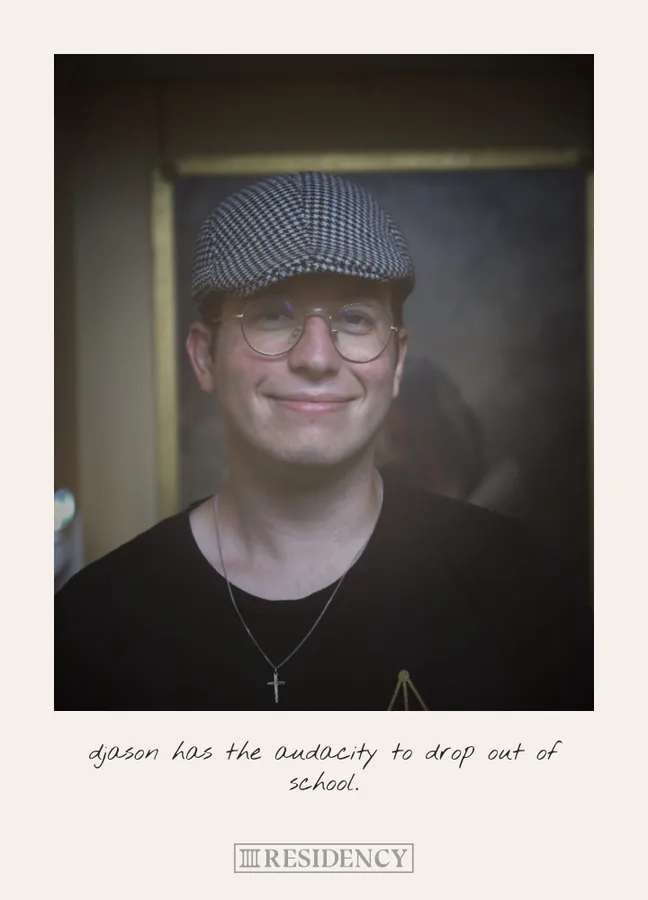
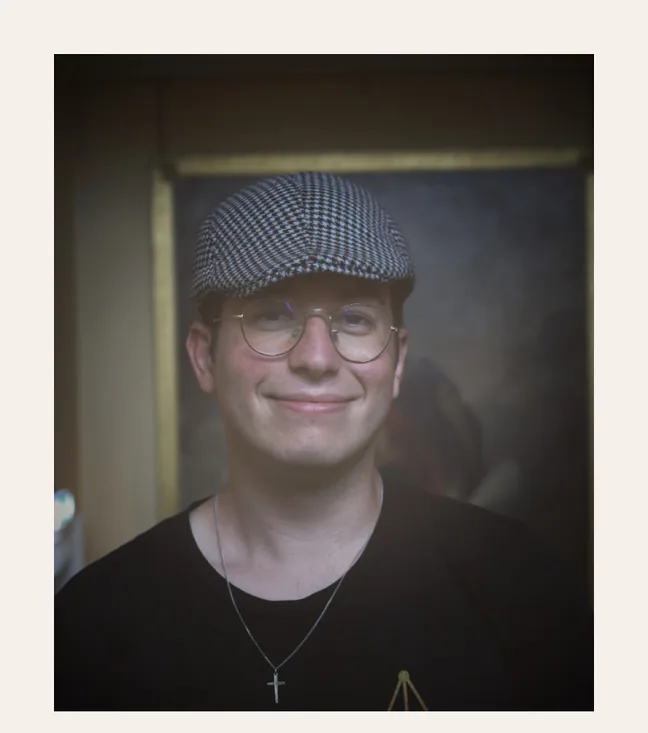
Crop the audacity captions off the resident polaroids
Each print now ends just below the photo; the name, company and links
sit underneath on the card. Placeholder cards match the new photo shape.

diff --git a/app/globals.css b/app/globals.css
@@ -568,7 +568,7 @@ button { font: inherit; color: inherit; background: none; border: 0; cursor: poi
 
 /* residents still waiting on a photo: same frame and shape as the prints */
 .polaroid:not(.has-photo) { background: #f5f0eb; padding: 16px 16px 10px; }
-.polaroid:not(.has-photo) .polaroid-photo { aspect-ratio: 4 / 5; }
+.polaroid:not(.has-photo) .polaroid-photo { aspect-ratio: 600 / 730; } /* same shape as the photo prints */
 
 /* residents with a finished polaroid: the print is the card, name and links sit on its frame */
 .polaroid.has-photo {

diff --git a/components/FounderWall.tsx b/components/FounderWall.tsx
@@ -248,7 +248,7 @@ function Card({
         {r.photo ? (
           <span className="polaroid-print">
             {/* eslint-disable-next-line @next/next/no-img-element */}
-            <img src={r.photo} alt={r.founder} width={648} height={900} loading="lazy" draggable={false} />
+            <img src={r.photo} alt={r.founder} width={648} height={733} loading="lazy" draggable={false} />
             <span className="polaroid-field">{r.field}</span>
           </span>
         ) : (

diff --git a/components/Dossier.tsx b/components/Dossier.tsx
@@ -147,7 +147,7 @@ export default function Dossier({
                 >
                   {r.photo ? (
                     // eslint-disable-next-line @next/next/no-img-element
-                    <img src={r.photo} alt={r.founder} width={648} height={900} />
+                    <img src={r.photo} alt={r.founder} width={648} height={733} />
                   ) : (
                     <>
                       <span className="dossier-photo">
